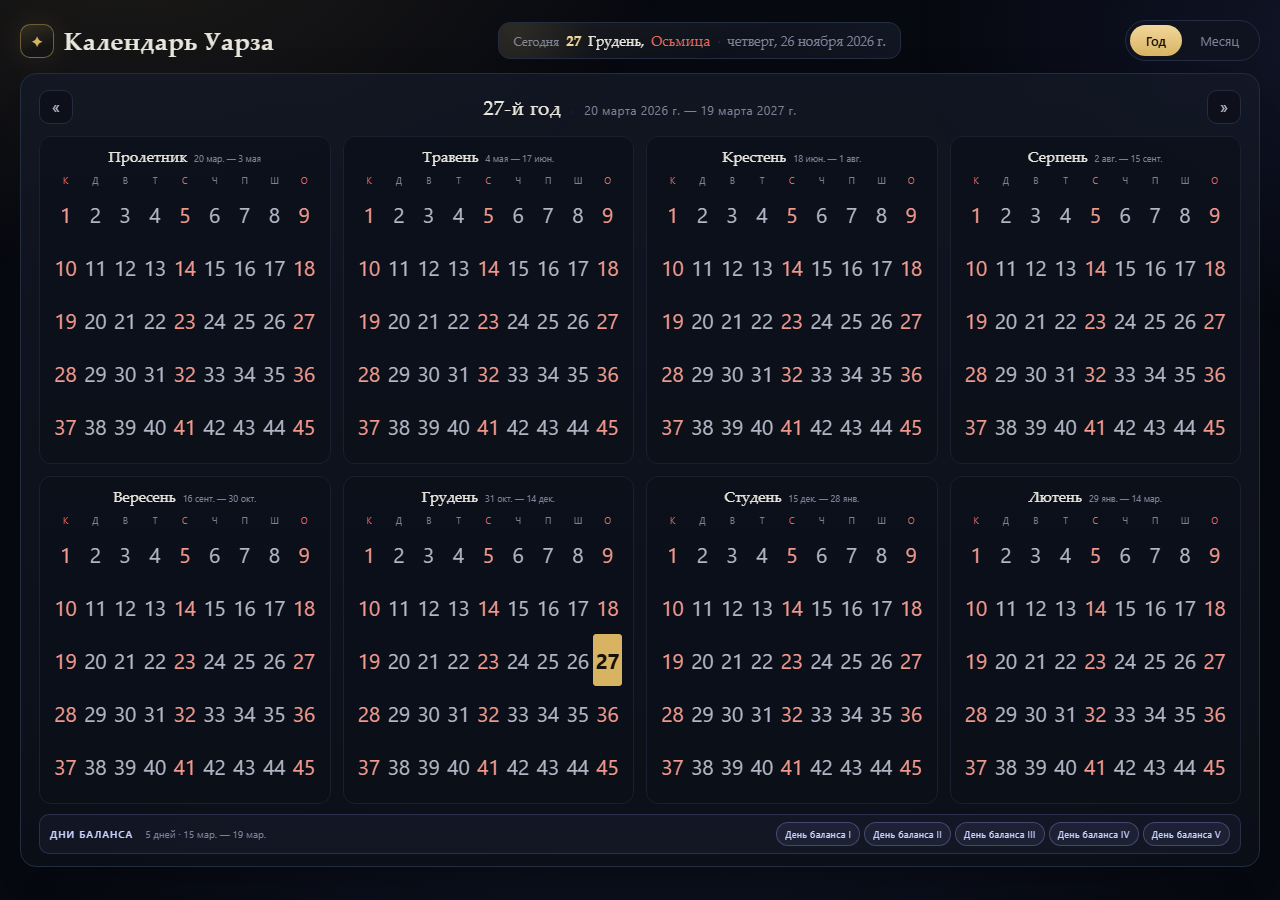
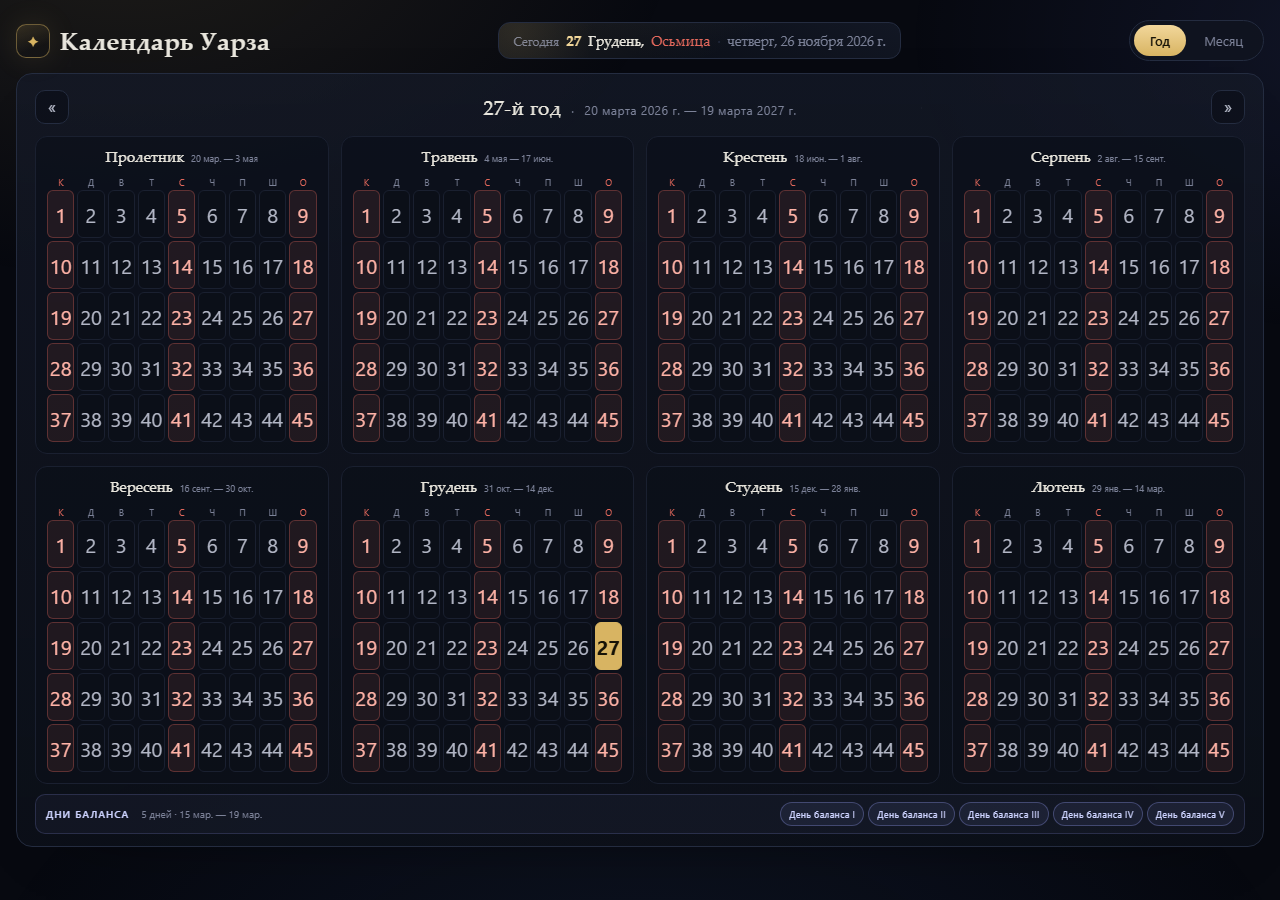
Широкий layout под большие мониторы, ячейки года с рамками как в месячном виде

diff --git a/styles.css b/styles.css
@@ -71,7 +71,7 @@ body {
 .app {
   position: relative;
   z-index: 1;
-  width: min(1240px, 100% - 32px);
+  width: min(2100px, 100% - 32px);
   margin: 0 auto;
   padding: 20px 0 26px;
 }
@@ -586,7 +586,7 @@ h1 {
 .mini-days {
   display: grid;
   grid-template-columns: repeat(var(--cols), minmax(0, 1fr));
-  gap: 1px;
+  gap: 3px;
 }
 
 .mini-weekdays {
@@ -607,33 +607,37 @@ h1 {
 .mini-cell {
   display: grid;
   place-items: center;
-  height: 52px;
-  border-radius: 4px;
+  height: clamp(48px, min(3.4vw, 5.8vh), 64px);
+  border: 1px solid var(--line-soft);
+  border-radius: 6px;
+  background: rgba(11, 15, 24, 0.72);
   color: var(--ink-dim);
-  font-size: 20.5px;
+  font-size: clamp(20px, 1.2vw, 24px);
   font-variant-numeric: tabular-nums;
 }
 
 .mini-cell.is-rest {
-  color: #f2998d;
+  border-color: var(--red-line);
+  background: var(--red-soft);
+  color: var(--red-ink);
 }
 
 button.mini-cell {
   appearance: none;
-  border: 0;
-  background: transparent;
   font: inherit;
-  font-size: 20.5px;
+  font-size: clamp(20px, 1.2vw, 24px);
   cursor: pointer;
   padding: 0;
 }
 
 button.mini-cell:hover {
-  background: rgba(216, 180, 98, 0.16);
+  border-color: rgba(216, 180, 98, 0.45);
+  background: rgba(216, 180, 98, 0.14);
   color: var(--gold-2);
 }
 
 .mini-cell.is-today {
+  border-color: var(--gold);
   background: var(--gold);
   color: #171307;
   font-weight: 700;
@@ -724,8 +728,8 @@ button.mini-cell:hover {
 
   .mini-cell,
   button.mini-cell {
-    height: 52px;
-    font-size: 20px;
+    height: 54px;
+    font-size: 21px;
   }
 }
 
@@ -805,8 +809,8 @@ button.mini-cell:hover {
 
   .mini-cell,
   button.mini-cell {
-    height: 56px;
-    font-size: 21px;
+    height: 58px;
+    font-size: 22px;
   }
 }
 
